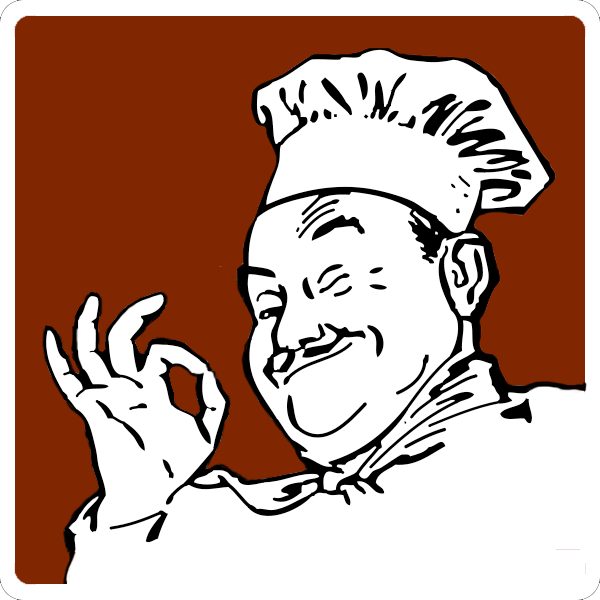
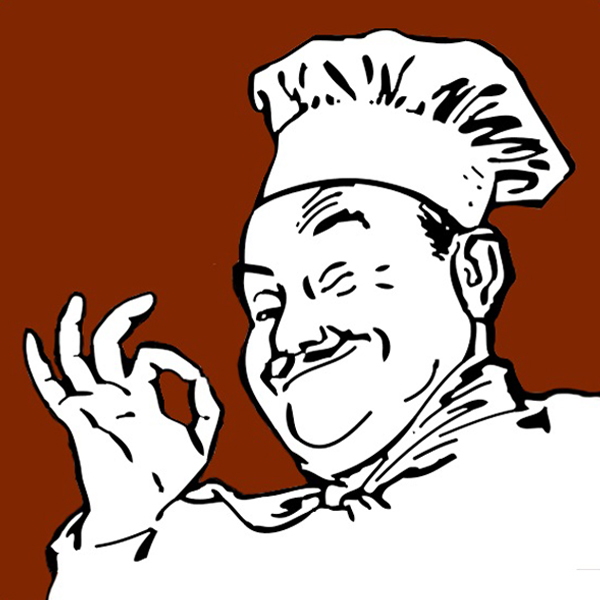
home UI update; foodie image was made to fit perfectly into card. Cards were made to show extra info on hover.

diff --git a/templates/Home/index.html b/templates/Home/index.html
@@ -13,37 +13,43 @@
         }
         .card {
             width: 200px;
+            height: 260px;
             background-color: white;
             border-radius: 25px;
             overflow: hidden;
-            transition: 0.5s ease;
+            transition: .5s ease;
             border: none;
             margin:5px;
         }
         .card:hover {
             margin: 2px 15px;
+            height: 290px;
         }
 
         .card .card-body{
-            transition: 0.5s ease;
+            transition: .5s ease;
             font-size: 16px;
         }
         .card .card-body {
             font-family: "Trebuchet MS";
+            padding: 0 10px;
         }
         .card .card-title {
-            transition: 0.3s ease;
+            text-align: center;
+            margin-top: 20px;
+            transition: .3s ease;
             color: #590000;
         }
         .card:hover .card-title {
             color: black;
+            margin-top: 0;
         }
         .card img {
             opacity: 0.8;
             object-fit: cover;
             object-position: center;
             height: 200px;
-            transition: 0.5s ease;
+            transition: .5s ease;
         }
         .card:hover img {
             opacity: 1;
@@ -62,6 +68,19 @@
             padding-right:30px;
         }
 
+        .info {
+            padding: 0 5px;
+            opacity: 0;
+            transition: .5s ease;
+            border: 0px blue;
+        }
+        .card:hover .info {
+            opacity: 1;
+            border-top: 2px solid whitesmoke;
+            border-bottom: 3px solid whitesmoke;
+            border-radius: 15px;
+        }
+
         @media screen and (max-width: 481px) {
             .card {
                 width: 140px;
@@ -70,13 +89,33 @@
                 margin: 2px 8px;
             }
             .card img {
-                object-fit: cover;
-                object-position: center;
                 height: 140px;
             }
 
             .card-body p {
                 font-size: 14px;
+            }
+        }
+
+        @media screen and (max-width: 1024px ) {
+            .card {
+                width: 140px;
+                height: 210px;
+            }
+            .card:hover {
+                height: 255px;
+            }
+
+            .card img {
+                height: 140px;
+            }
+            .info {
+                opacity: 0;
+                transition: .5s ease;
+            }
+            .card:hover .info {
+                display: block;
+                opacity: 1;
             }
         }
     </style>
@@ -93,75 +132,87 @@
                 <h4>Available Apps</h4>
                 <p>Apps that can be accessed without necessarily having an account with Seoto</p>
                 <div class="apps">
-                    <div class="card mb-3">
+                    <div class="card mb-3" id="card" onmouseenter="show(1)" onmouseleave="hide(1)">
                       <a href="{% url 'foodie' %}">
                           <img src="{% static 'img/food-app-icon.jpg' %}" class="card-img-top" alt="Icon">
                           <div class="card-body">
                               <h5 class="card-title">Foodie</h5>
-                            <p class="card-text">
+                              <div class="info" id="info1">
+                                <span class="card-text">
                                 Let me suggest what to eat...
-                            </p>
+                            </span>
+                              </div>
                           </div>
                       </a>
                     </div>
-                    <div class="card mb-3">
+                    <div class="card mb-3" id="card" onmouseenter="show(2)" onmouseleave="hide(2)">
                       <a href="{% url 'interest_calculator' %}">
                           <img src="{% static 'img/interest-app-icon.png' %}" class="card-img-top" alt="Icon">
                           <div class="card-body">
                               <h5 class="card-title">Interest Calculator</h5>
-                            <p class="card-text">
+                              <div class="info" id="info2">
+                                <span class="card-text">
                                 Know your earnings.
-                            </p>
+                            </span>
+                              </div>
                           </div>
                       </a>
                     </div>
-                    <div class="card mb-3">
+                    <div class="card mb-3" id="card" onmouseenter="show(3)" onmouseleave="hide(3)">
                       <a href="{% url 'rhymes' %}">
                           <img src="{% static 'img/rhymes-app-icon.jpg' %}" class="card-img-top" alt="Icon">
                           <div class="card-body">
                               <h5 class="card-title">Rhyme DB</h5>
-                            <p class="card-text">
+                              <div class="info" id="info3">
+                                <span class="card-text">
                                 A list of words that rhyme together.
-                            </p>
+                            </span>
+                              </div>
                           </div>
                       </a>
                     </div>
-                    <div class="card mb-3">
+                    <div class="card mb-3" id="card" onmouseenter="show(4)" onmouseleave="hide(4)">
                       <a href="{% url 'throw_a_die' %}">
                           <img src="{% static 'img/dice-app-icon.png' %}" class="card-img-top" alt="Icon">
                           <div class="card-body">
                               <h5 class="card-title">Throw a die</h5>
-                            <p class="card-text">
+                              <div class="info" id="info4">
+                                <span class="card-text">
                                 Play a game. Ludu or something.
-                            </p>
+                            </span>
+                              </div>
                           </div>
                       </a>
                     </div>
-                    <div class="card mb-3">
+                    <div class="card mb-3" id="card" onmouseenter="show(5)" onmouseleave="hide(5)">
                       <a href="{% url 'flip_a_coin' %}">
                           <img src="{% static 'img/coin-app-icon.png' %}" class="card-img-top" alt="Icon">
                           <div class="card-body">
                               <h5 class="card-title">Flip a coin</h5>
-                            <p class="card-text">
+                              <div class="info" id="info5">
+                                <span class="card-text">
                                 Settle a dispute maybe.
-                            </p>
+                            </span>
+                              </div>
                           </div>
                       </a>
                     </div>
                 </div>
             </div>
-            <div class="user_apps col-md-4">
+            <div class="user_apps col-md-4" id="card">
                 <h4>User only Apps</h4>
                 <p>Apps that require you to be logged in</p>
                 <div class="apps">
-                    <div class="card mb-3">
+                    <div class="card mb-3" onmouseenter="show(10)" onmouseleave="hide(10)">
                       <a href="{% url 'jotter' %}">
                           <img src="{% static 'img/jotter-app-icon.jpg' %}" class="card-img-top" alt="Icon">
                           <div class="card-body">
                               <h5 class="card-title">Jotter</h5>
-                            <p class="card-text">
-                                Your personal handbook.
-                            </p>
+                              <div class="info" id="info10">
+                                <span class="card-text">
+                                    Your personal handbook.
+                                </span>
+                              </div>
                           </div>
                       </a>
                     </div>
@@ -169,4 +220,7 @@
             </div>
         </div>
     </div>
+{% endblock %}
+
+{% block script %}
 {% endblock %}
